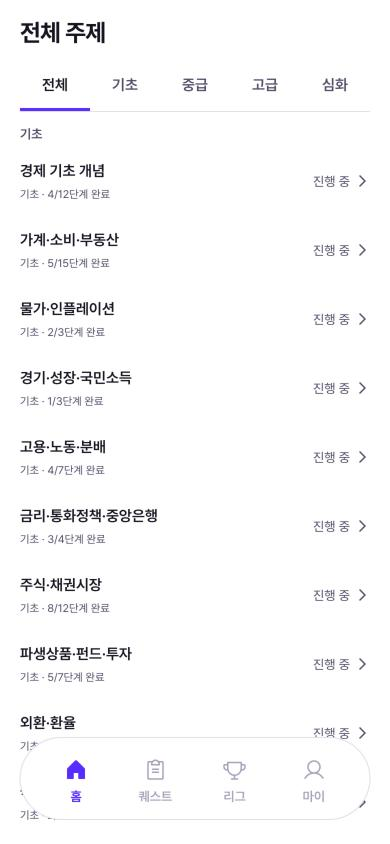
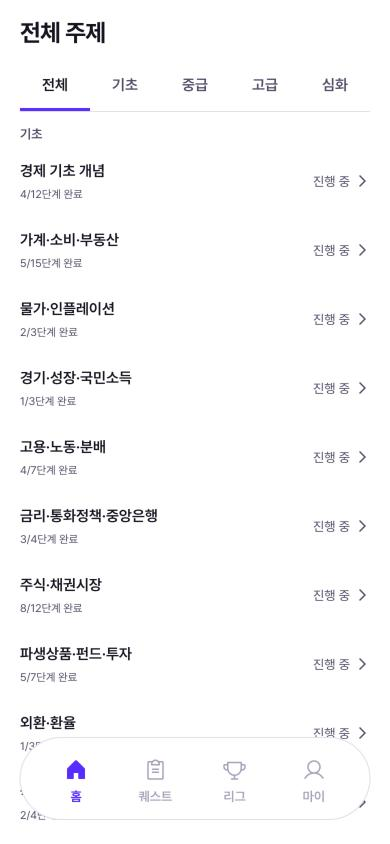
홈: 다음이 퀴즈면 막대 숨김·'용어 퀴즈 풀기'로 바로 퀴즈, 전체 주제 행에서 레벨 접두어 삭제

diff --git a/src/pages/CourseScreen.tsx b/src/pages/CourseScreen.tsx
@@ -360,9 +360,10 @@ const CourseScreen = () => {
                 <p>{!focusTopic ? '모두 배웠어요! 가볍게 복습해 볼까요?' : focusSteps.done > 0 || focusTopic.known > 0 ? `${focusStepsLeft}단계만 더 하면 이 주제를 끝내요` : '오늘 첫 용어부터 같이 봐요'}</p>
                 <div className="course-home-level">
                   <span className="course-home-level-label">{!focus ? '모든 학습을 마쳤어요!' : focus.type === 'quiz' ? '용어 퀴즈를 풀면 다음 레슨이 열려요' : nextRemaining > 0 ? `'${nextWords[0]?.word}' 레슨 용어 ${nextRemaining}개 남았어요` : '다음 학습으로 넘어갈 수 있어요'}</span>
-                  <div role="progressbar" aria-label="다음 학습까지 진행률" aria-valuemin={0} aria-valuemax={100} aria-valuenow={nextProgress} className="course-home-level-track">
+                  {/* 다음이 퀴즈면 채울 용어가 없어 막대가 늘 꽉 차 보이므로 숨긴다 */}
+                  {focus?.type !== 'quiz' && <div role="progressbar" aria-label="다음 학습까지 진행률" aria-valuemin={0} aria-valuemax={100} aria-valuenow={nextProgress} className="course-home-level-track">
                     <span style={{ width: `${nextProgress}%` }} />
-                  </div>
+                  </div>}
                 </div>
               </div>
             </div>
@@ -371,9 +372,12 @@ const CourseScreen = () => {
           <HomeOverview />
           {focus && focusTopic && <ActionButton fullWidth tone={hasDue ? 'soft' : 'primary'} onClick={() => {
             logClick('learning_continue', { course_id: focus.courseId, node_id: focus.id });
+            // 다음이 퀴즈면 라벨대로 퀴즈를 바로 연다
+            const sec = focus.type === 'quiz' ? sections.find(section => section.course.id === focus.courseId) : undefined;
+            if (sec) { void handleNodeTap(sec.nodes[focus.index], focus.index, sec.knownCount, sec.course.title); return; }
             setSearchParams({ topic: String(focusTopic.index) });
           }} className="course-home-primary">
-            {knownIds.size > 0 ? '이어 배우기' : '첫 주제 시작하기'}
+            {focus.type === 'quiz' ? '용어 퀴즈 풀기' : knownIds.size > 0 ? '이어 배우기' : '첫 주제 시작하기'}
           </ActionButton>}
         </section>
 
@@ -439,7 +443,7 @@ const CourseScreen = () => {
                 onClick={() => navigate(`/course?topic=${topic.index}`)} aria-label={`${topic.level} ${topic.category} 주제 열기`} aria-describedby={`topic-summary-${topic.index}`} className="course-home-topic w-full"
                 contents={<span className="flex flex-col">
                   <span className="course-home-topic-title">{topic.category}</span>
-                  <span id={`topic-summary-${topic.index}`} className="course-home-topic-meta">{topic.level} · {steps.done}/{steps.total}단계 완료</span>
+                  <span id={`topic-summary-${topic.index}`} className="course-home-topic-meta">{steps.done}/{steps.total}단계 완료</span>
                 </span>}
                 right={<span className="flex items-center gap-1 text-xs text-[var(--color-ink-3)]">{locked ? '잠김' : done ? '완료' : steps.done > 0 || topic.known > 0 ? '진행 중' : '시작 가능'}{locked ? <LockKeyhole size={16} aria-hidden="true" /> : <ChevronRight size={16} aria-hidden="true" />}</span>}
               />

diff --git a/src/pages/CourseScreen.test.tsx b/src/pages/CourseScreen.test.tsx
@@ -212,7 +212,9 @@ describe('CourseScreen energy gates', () => {
     await flushScrollEffects();
 
     expect(container.querySelector('.course-home-tools')).toBeNull();
-    expect(container.textContent).toContain('이어 배우기');
+    // c1 용어는 다 봤지만 퀴즈를 안 풀었으니 다음은 c1 퀴즈다. 막대는 숨긴다
+    expect(container.querySelector('.course-home-primary')).toHaveTextContent('용어 퀴즈 풀기');
+    expect(container.querySelector('[aria-label="다음 학습까지 진행률"]')).toBeNull();
     expect(HTMLElement.prototype.scrollIntoView).not.toHaveBeenCalled();
   });
 
